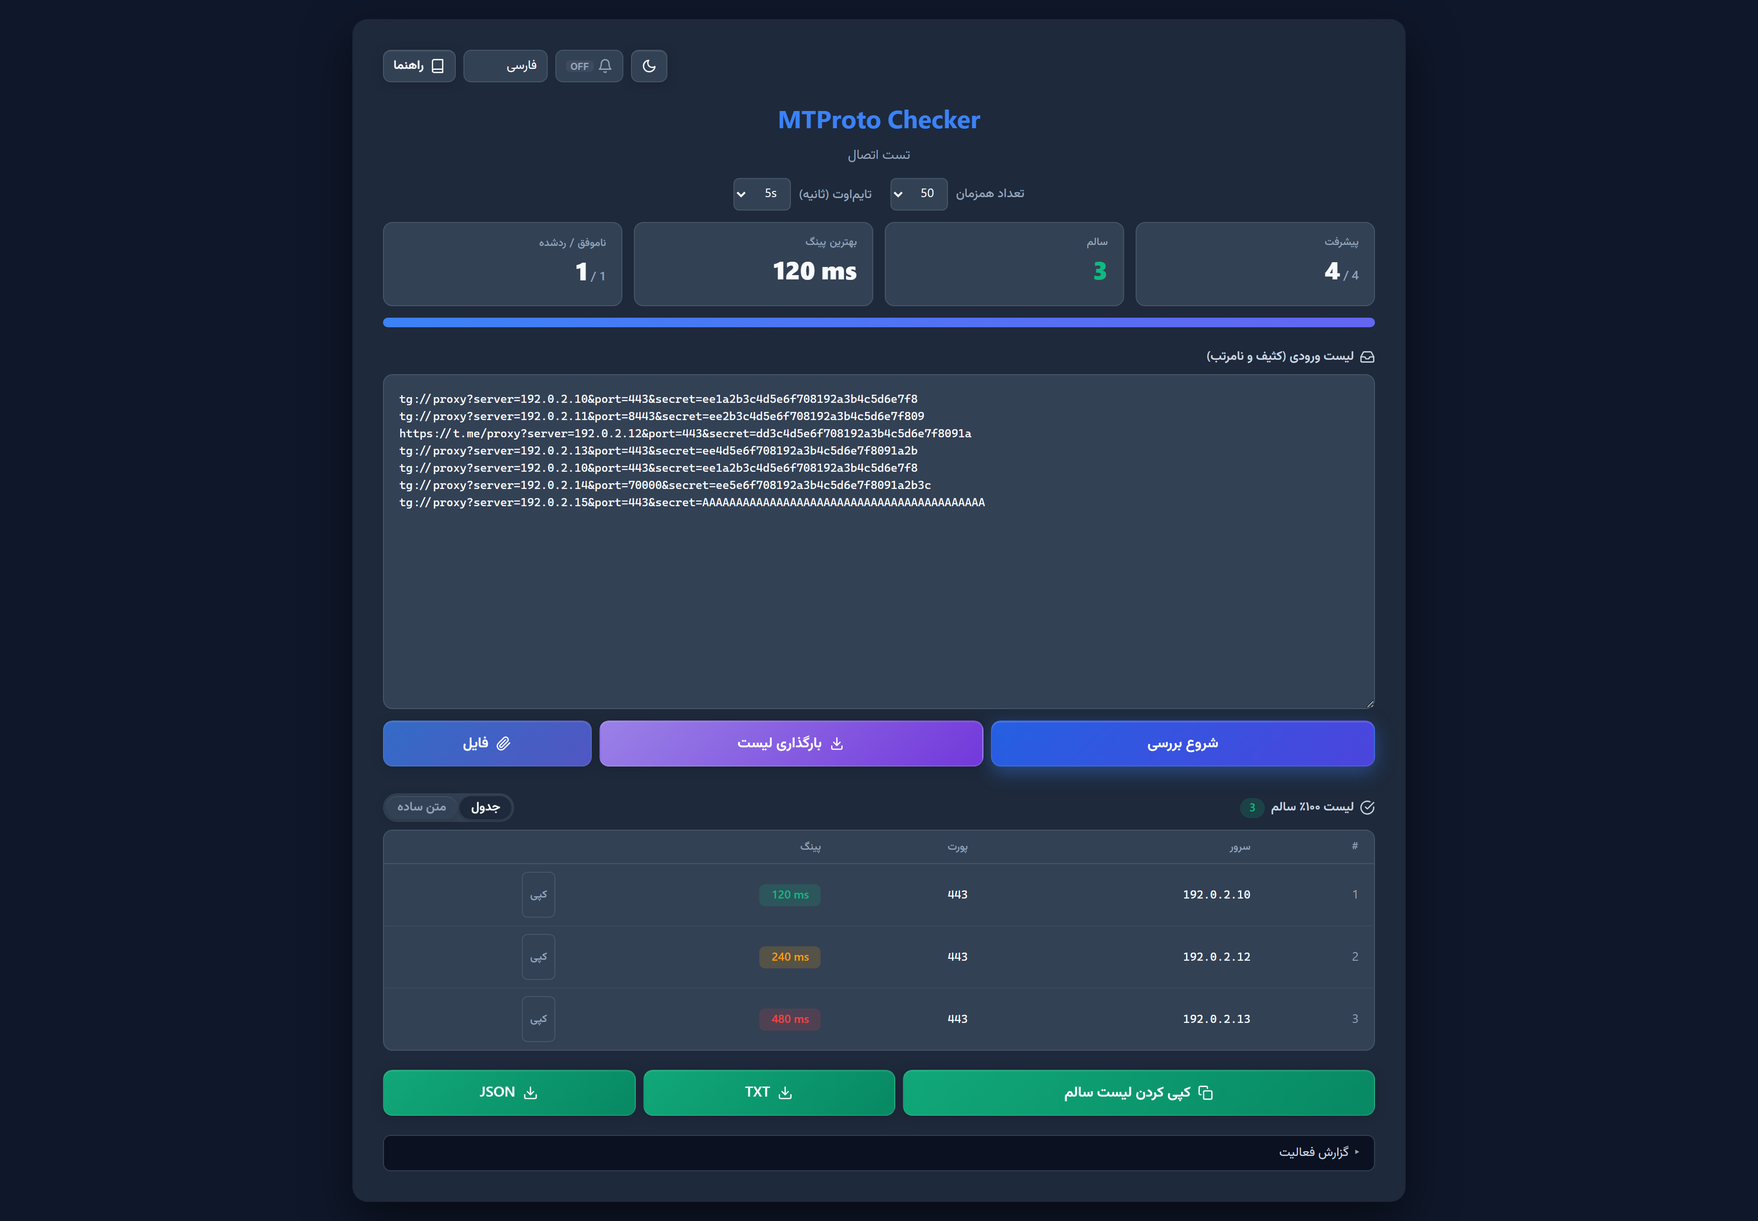
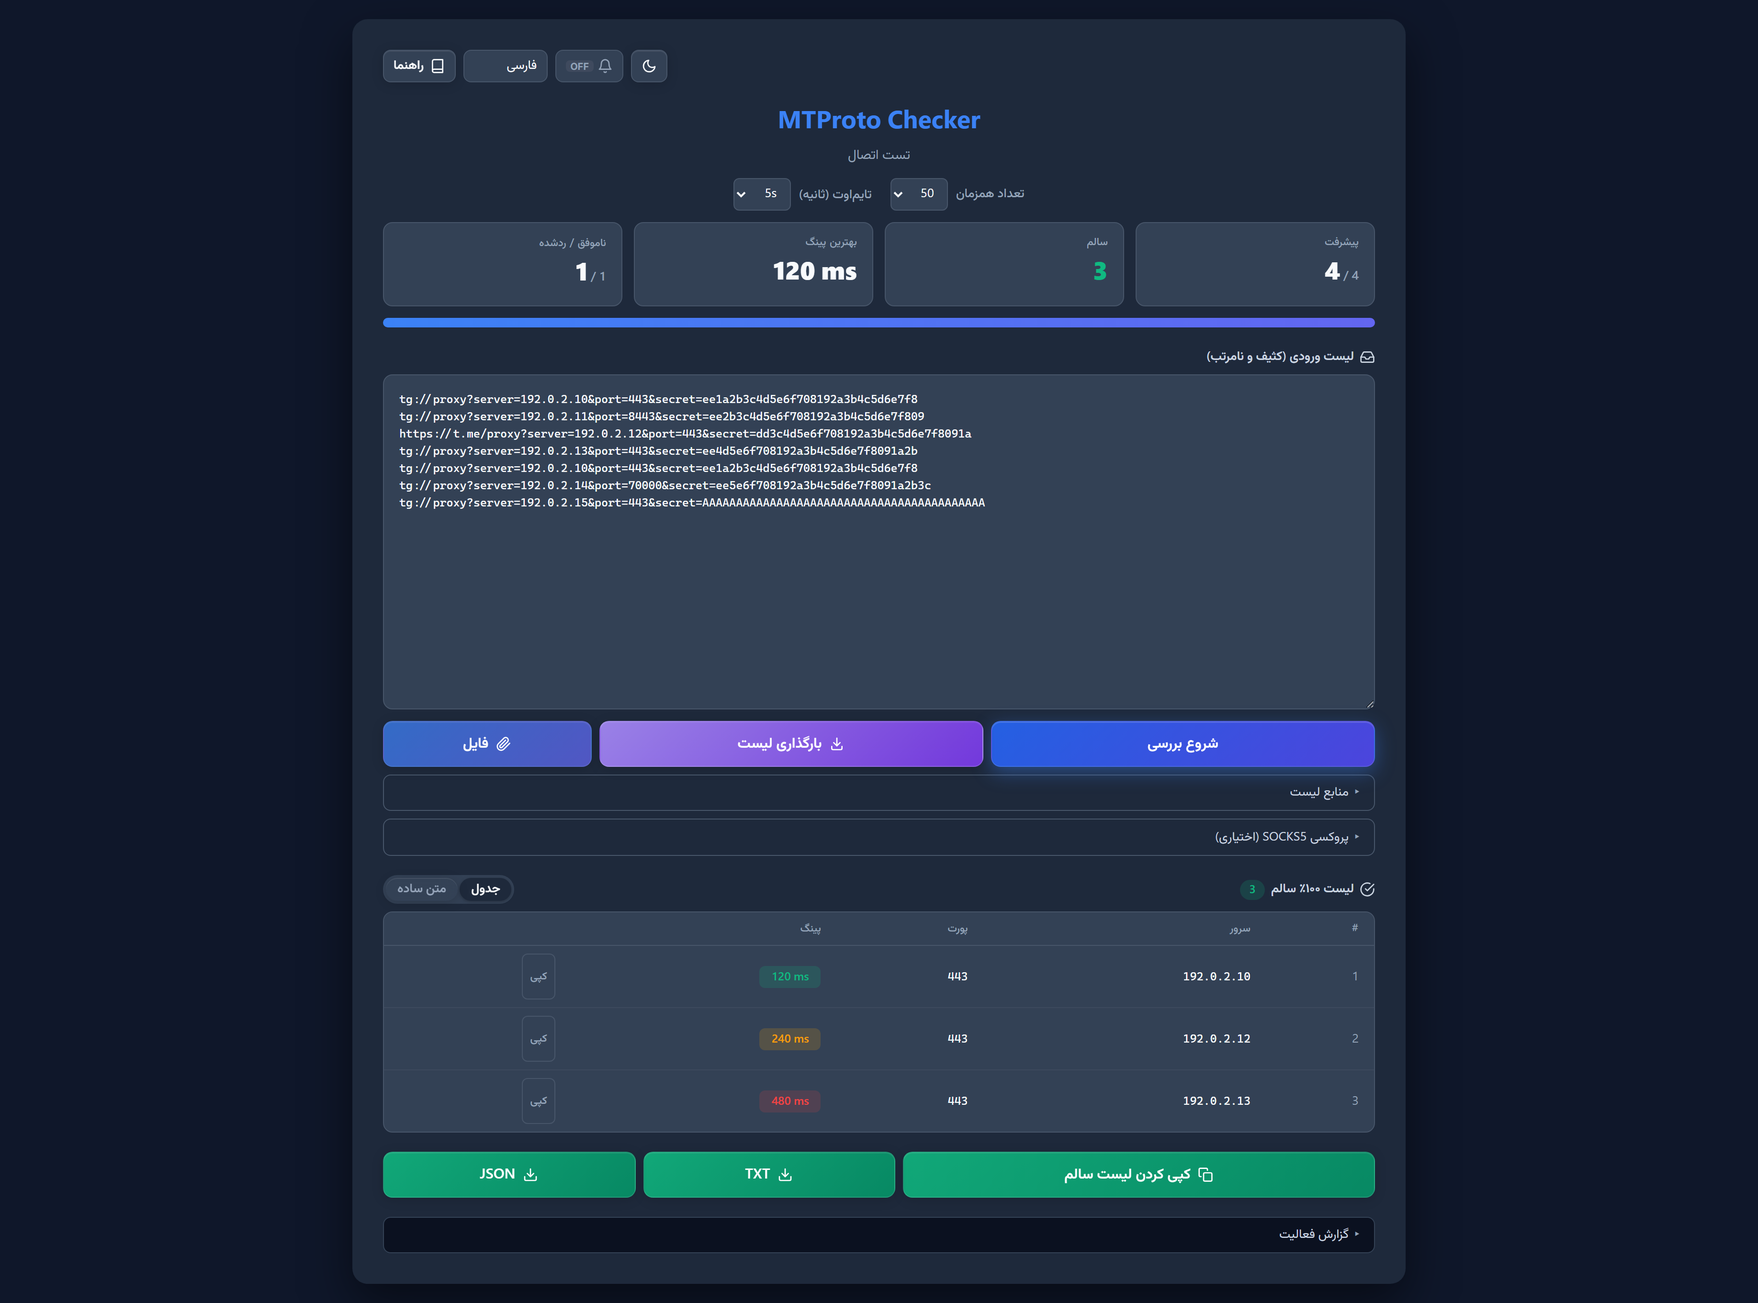
docs: document the built-in list in all four READMEs
Adds the same feature bullet and the same usage step to README.md, _FA,
_RU and _ZH, each quoting the button labels of its own locale as they
read in i18n.js: Load list / List sources / SOCKS5 proxy (optional).
All four stay at the same ten headings, eight feature bullets and six
usage steps.

The screenshots are retaken because the layout did change after the last
retake: the sources drawer, the SOCKS5 drawer and the add/remove source
controls all landed since. Still from tests/fixtures/sse-progress.txt at
1836 CSS px and 2x DPR, so every address is RFC 5737 documentation space
and no live proxy appears in images/.

diff --git a/README_RU.md b/README_RU.md
@@ -12,6 +12,7 @@
 * **Go-бэкенд:** На базе `gotd/td` — быстро, стабильно, один бинарник ~21MB без зависимостей.
 * **Вставляйте что угодно:** Грязные списки чистятся автоматически — искажённые ссылки `tg://` / `https://t.me` исправляются, спам-секреты и неверные порты отбрасываются; вход по номеру телефона не нужен (публичные тестовые ключи).
 * **Три способа загрузить список:** Вставить текст, выбрать файл `.txt`/`.csv`/`.list` или перетащить его в поле ввода.
+* **Встроенный список прокси:** Один клик по **«Загрузить список»** подтягивает список, который каждую ночь пересобирается из 17 публичных источников, — свежую копию по сети, а если сеть закрыта, копию, вшитую в бинарник. Источники можно добавлять и отключать, они ранжируются по числу выданных рабочих прокси, а запрос можно пустить через SOCKS5.
 * **Пауза и продолжение:** Остановите проверку и продолжите с того же места без повторной проверки.
 * **Готовые к использованию результаты:** Рабочие прокси попадают в таблицу, отсортированную по пингу, — копирование по строке, текстовый вид и экспорт TXT/JSON.
 * **Интерфейс:** Тёмная и светлая темы, четыре языка (русский, английский, персидский, китайский).
@@ -52,9 +53,10 @@ go build -o mtproto-checker .
 1.  **Получить прокси:** Скопируйте список смешанных MTProto прокси.
     > **Совет:** Большой список бесплатных прокси можно найти в [этом репозитории](https://github.com/SoliSpirit/mtproto).
 2.  **Загрузить список:** Вставьте в поле **«Список прокси»**, нажмите **«Файл»** или перетащите файл в поле ввода.
-3.  **Запуск:** Нажмите **«Начать проверку»**.
-4.  **Ожидание:** Сначала отфильтровываются неверные форматы, затем все прокси проверяются параллельно, и каждый результат приходит сразу же. Четыре плитки над полем ввода — прогресс, работает, лучший пинг, ошибки/пропущено — обновляются по ходу.
-5.  **Сбор результатов:** Рабочие прокси появляются в таблице результатов, самые быстрые первыми — скопируйте строку, нажмите **«Копировать список»** или экспортируйте в TXT/JSON.
+3.  **Или загрузить встроенный список:** Нажмите **«Загрузить список»**, чтобы получить ночную сборку из 17 публичных источников — сначала копию по сети, затем вшитую в бинарник, если сеть закрыта. В **«Источники списка»** добавляйте свои ссылки или отключайте источники, а в **«Прокси SOCKS5 (необязательно)»** укажите прокси, если сами списки заблокированы.
+4.  **Запуск:** Нажмите **«Начать проверку»**.
+5.  **Ожидание:** Сначала отфильтровываются неверные форматы, затем все прокси проверяются параллельно, и каждый результат приходит сразу же. Четыре плитки над полем ввода — прогресс, работает, лучший пинг, ошибки/пропущено — обновляются по ходу.
+6.  **Сбор результатов:** Рабочие прокси появляются в таблице результатов, самые быстрые первыми — скопируйте строку, нажмите **«Копировать список»** или экспортируйте в TXT/JSON.
 
 ## 🔌 HTTP API
 

diff --git a/README_FA.md b/README_FA.md
@@ -12,6 +12,7 @@
 * **بکاند Go:** ساختهشده با `gotd/td` — سریع، پایدار، یک باینری ~21MB بدون وابستگی.
 * **هرچه دارید جایگذاری کنید:** لیستهای کثیف خودکار تمیز میشوند — لینکهای بهمریخته `tg://` و `https://t.me` اصلاح و سکرتهای اسپم و پورتهای نامعتبر حذف میشوند — و نیازی به ورود با شماره تلفن نیست (کلیدهای تست عمومی).
 * **سه راه برای وارد کردن لیست:** جایگذاری متن، انتخاب فایل `.txt`/`.csv`/`.list` یا کشیدن و رها کردن فایل روی کادر ورودی.
+* **لیست داخلی پروکسی:** با یک کلیک روی **«بارگذاری لیست»** فهرستی که هر شب از ۱۷ منبع عمومی بازساخته میشود بارگذاری میشود — اگر شبکه اجازه دهد نسخهٔ تازه، و اگر مسدود بود نسخهٔ پختهشده در خود باینری. میتوانید منبع اضافه یا خاموش کنید، منابع بر اساس تعداد پروکسی سالمی که دادهاند امتیاز میگیرند، و دریافت لیست میتواند از یک پروکسی SOCKS5 عبور کند.
 * **توقف و ادامه:** بررسی را متوقف کنید و بدون تست دوباره از همانجا ادامه دهید.
 * **نتایج آماده استفاده:** پروکسیهای سالم در جدولی مرتب بر اساس پینگ مینشینند — با کپی تکردیفی، نمای متن ساده و خروجی TXT/JSON.
 * **رابط کاربری:** تم تیره و روشن، چهار زبان (فارسی، انگلیسی، روسی، چینی).
@@ -52,9 +53,10 @@ go build -o mtproto-checker .
 1.  **دریافت پروکسی:** لیست پروکسیهای خود را آماده کنید.
     > **نکته:** برای دریافت لیست بزرگی از پروکسیهای رایگان میتوانید از [این ریپازیتوری](https://github.com/SoliSpirit/mtproto) استفاده کنید.
 2.  **وارد کردن لیست:** متن را در کادر **«لیست ورودی»** جایگذاری کنید، دکمه **«فایل»** را بزنید، یا فایل را روی کادر بکشید و رها کنید.
-3.  **شروع:** روی دکمه **«شروع بررسی»** کلیک کنید.
-4.  **صبر کنید:** ابتدا فرمتهای نامعتبر حذف میشوند، سپس همهٔ پروکسیها همزمان بررسی میشوند و نتیجهٔ هرکدام همان لحظه میرسد. چهار کاشی بالای کادر ورودی — پیشرفت، سالم، بهترین پینگ، ناموفق/ردشده — همانطور که پیش میرود بهروز میشوند.
-5.  **برداشت نتایج:** پروکسیهای سالم در جدول نتایج، سریعترین اول، ظاهر میشوند — یک ردیف را کپی کنید، **«کپی کردن لیست سالم»** را بزنید یا خروجی TXT/JSON بگیرید.
+3.  **یا بارگذاری لیست داخلی:** روی **«بارگذاری لیست»** بزنید تا فهرست شبانهای که از ۱۷ منبع عمومی ساخته میشود بیاید — اول نسخهٔ شبکه، و اگر مسدود بود نسخهٔ داخل باینری. برای افزودن نشانی خودتان یا خاموش کردن منابع **«منابع لیست»** را باز کنید، و اگر خود این لیستها فیلترند **«پروکسی SOCKS5 (اختیاری)»** را.
+4.  **شروع:** روی دکمه **«شروع بررسی»** کلیک کنید.
+5.  **صبر کنید:** ابتدا فرمتهای نامعتبر حذف میشوند، سپس همهٔ پروکسیها همزمان بررسی میشوند و نتیجهٔ هرکدام همان لحظه میرسد. چهار کاشی بالای کادر ورودی — پیشرفت، سالم، بهترین پینگ، ناموفق/ردشده — همانطور که پیش میرود بهروز میشوند.
+6.  **برداشت نتایج:** پروکسیهای سالم در جدول نتایج، سریعترین اول، ظاهر میشوند — یک ردیف را کپی کنید، **«کپی کردن لیست سالم»** را بزنید یا خروجی TXT/JSON بگیرید.
 
 ## 🔌 HTTP API
 

diff --git a/README.md b/README.md
@@ -12,6 +12,7 @@ A powerful tool to verify **Telegram MTProto Proxies** by performing real protoc
 * **Go backend:** Powered by `gotd/td` — fast, stable, one ~21MB binary with no dependencies.
 * **Paste anything:** Dirty lists are cleaned automatically — mangled `tg://` / `https://t.me` links are fixed, spam secrets and invalid ports dropped — and no phone login is needed (public test keys).
 * **Three ways to load a list:** Paste it, pick a `.txt`/`.csv`/`.list` file, or drag one onto the input box.
+* **Built-in proxy list:** One click on **"Load list"** pulls a list rebuilt nightly from 17 public sources — the fresh copy over the network, the copy baked into the binary when the network is blocked. Sources can be added or switched off, they are ranked by how many working proxies they delivered, and the fetch can go through a SOCKS5 proxy.
 * **Pause & resume:** Interrupt a scan and continue where it left off without rechecking.
 * **Results ready to use:** Working proxies land in a table sorted by ping, with per-row copy, a plain-text view, and TXT/JSON export.
 * **Interface:** Dark & light themes, four languages (English, Persian, Russian, Chinese).
@@ -52,9 +53,10 @@ go build -o mtproto-checker .
 1.  **Get Proxies:** Copy your list of mixed/dirty MTProto proxies.
     > **Tip:** You can find a huge list of free proxies in [this repository](https://github.com/SoliSpirit/mtproto).
 2.  **Load the List:** Paste into the **"Input List"** box, click **"File"**, or drag a file onto the box.
-3.  **Start Check:** Click the **"Start Check"** button.
-4.  **Wait:** Invalid formats are filtered out first, then every proxy is checked concurrently and each result streams back the moment it lands. The four tiles above the input — progress, working, best ping, failed/skipped — update as it goes.
-5.  **Collect Results:** Working proxies appear in the results table, fastest first — copy a single row, click **"Copy Working List"**, or export as TXT/JSON.
+3.  **Or Load the Built-in List:** Click **"Load list"** to pull the nightly list built from 17 public sources — the network copy first, the copy baked into the binary if that is blocked. Open **"List sources"** to add your own URLs or turn sources off, and **"SOCKS5 proxy (optional)"** if the lists themselves are filtered where you are.
+4.  **Start Check:** Click the **"Start Check"** button.
+5.  **Wait:** Invalid formats are filtered out first, then every proxy is checked concurrently and each result streams back the moment it lands. The four tiles above the input — progress, working, best ping, failed/skipped — update as it goes.
+6.  **Collect Results:** Working proxies appear in the results table, fastest first — copy a single row, click **"Copy Working List"**, or export as TXT/JSON.
 
 ## 🔌 HTTP API
 

diff --git a/README_ZH.md b/README_ZH.md
@@ -12,6 +12,7 @@
 * **Go 后端:** 基于 `gotd/td` — 快速、稳定，单个 ~21MB 二进制文件，无依赖。
 * **随意粘贴:** 脏列表自动清理 — 修复格式错乱的 `tg://` / `https://t.me` 链接，丢弃垃圾密钥和无效端口；无需手机号登录（公开测试密钥）。
 * **三种方式加载列表:** 粘贴文本、选择 `.txt`/`.csv`/`.list` 文件，或将文件拖放到输入框。
+* **内置代理列表:** 点击 **"加载列表"** 即可获取每晚从 17 个公开来源重建的列表 — 网络可达时取最新副本，被拦截时使用二进制内置的副本。来源可添加或关闭，并按各自提供的可用代理数量排名，抓取还可经由 SOCKS5 代理。
 * **暂停/继续:** 随时暂停检查，继续时不会重复检查已完成的代理。
 * **即用的结果:** 可用代理进入按延迟排序的表格 — 支持逐行复制、纯文本视图和 TXT/JSON 导出。
 * **界面:** 暗色与亮色主题，四种语言（中文、英文、波斯语、俄语）。
@@ -52,9 +53,10 @@ go build -o mtproto-checker .
 1.  **获取代理:** 复制您的 MTProto 代理列表。
     > **提示:** 您可以在[此仓库](https://github.com/SoliSpirit/mtproto)找到大量免费代理。
 2.  **加载列表:** 粘贴到 **"输入列表"** 框中，点击 **"文件"**，或将文件拖放到输入框。
-3.  **开始检查:** 点击 **"开始检查"** 按钮。
-4.  **等待:** 先过滤无效格式，然后并发检查所有代理，每个结果一出来就立即回传。输入框上方的四个信息块 — 进度、可用、最佳延迟、失败/跳过 — 会随之实时更新。
-5.  **收集结果:** 可用代理按延迟从快到慢显示在结果表中 — 可逐行复制、点击 **"复制可用列表"**，或导出为 TXT/JSON。
+3.  **或加载内置列表:** 点击 **"加载列表"** 获取由 17 个公开来源每晚构建的列表 — 先取网络副本，被拦截时改用二进制内置的副本。在 **"列表来源"** 中添加自己的网址或关闭来源；若这些列表本身被过滤，可在 **"SOCKS5 代理（可选）"** 中配置代理。
+4.  **开始检查:** 点击 **"开始检查"** 按钮。
+5.  **等待:** 先过滤无效格式，然后并发检查所有代理，每个结果一出来就立即回传。输入框上方的四个信息块 — 进度、可用、最佳延迟、失败/跳过 — 会随之实时更新。
+6.  **收集结果:** 可用代理按延迟从快到慢显示在结果表中 — 可逐行复制、点击 **"复制可用列表"**，或导出为 TXT/JSON。
 
 ## 🔌 HTTP API
 
